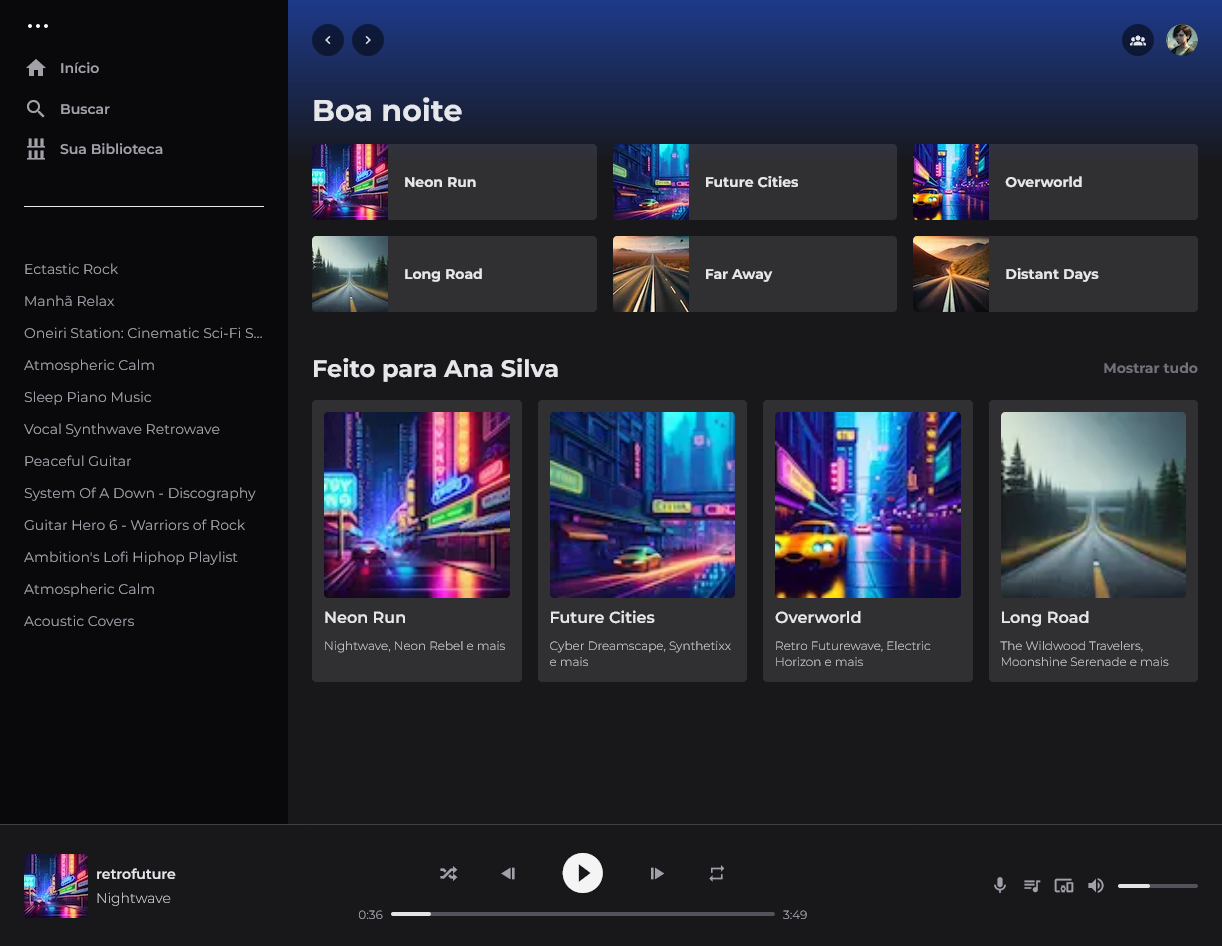
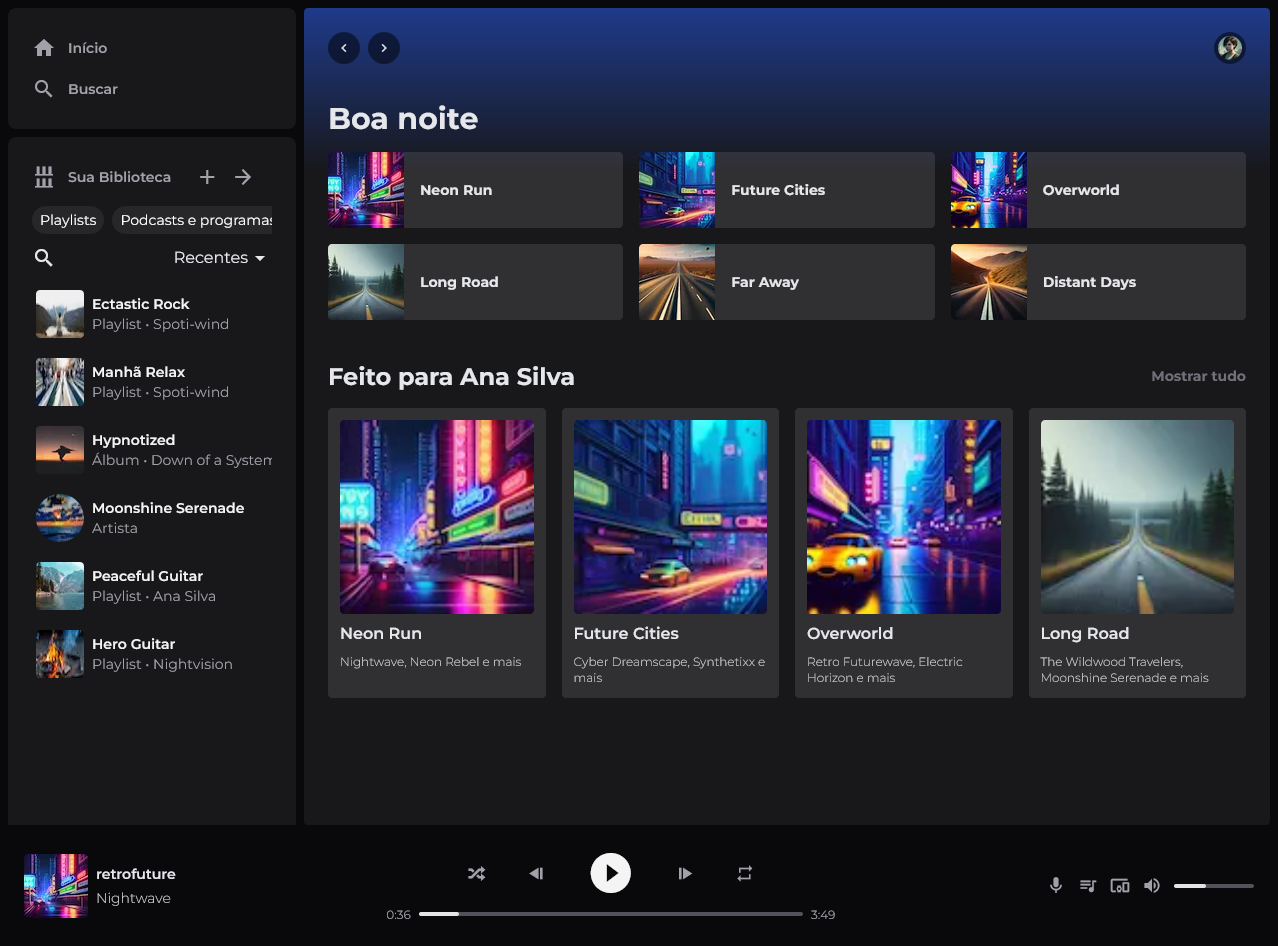
feat(sidebar): sidebar artist styling

diff --git a/src/app/components/Sidebar/Sidebar.tsx b/src/app/components/Sidebar/Sidebar.tsx
@@ -53,18 +53,22 @@ export default function Sidebar({ user }: { user: User }) {
             <div
               className='flex items-center gap-2 p-1 text-sm truncate mt-3 text-zinc-300 cursor-pointer hover:bg-zinc-800 rounded transition-all overflow-y-hidden'
               key={index}>
-              <Image className='rounded aspect-square' src={item.imageurl} width={48} height={48} alt='' />
+              <Image
+                className={`${item.type === 'Artista' ? 'rounded-full' : 'rounded'} aspect-square`}
+                src={item.imageurl}
+                width={48}
+                height={48}
+                alt=''
+              />
               <div className='flex flex-col '>
                 <div className='text-zinc-100 font-semibold'>{item.name}</div>
                 <div className='text-zinc-400'>
                   {item.type}
-                  {
-                  item.type === "Playlist"
+                  {item.type === "Playlist"
                     ? " • " + item.owner
                     : item.type === "Álbum"
                     ? " • " + item.artist
-                    : item.owner
-                  }
+                    : item.owner}
                 </div>
               </div>
             </div>
